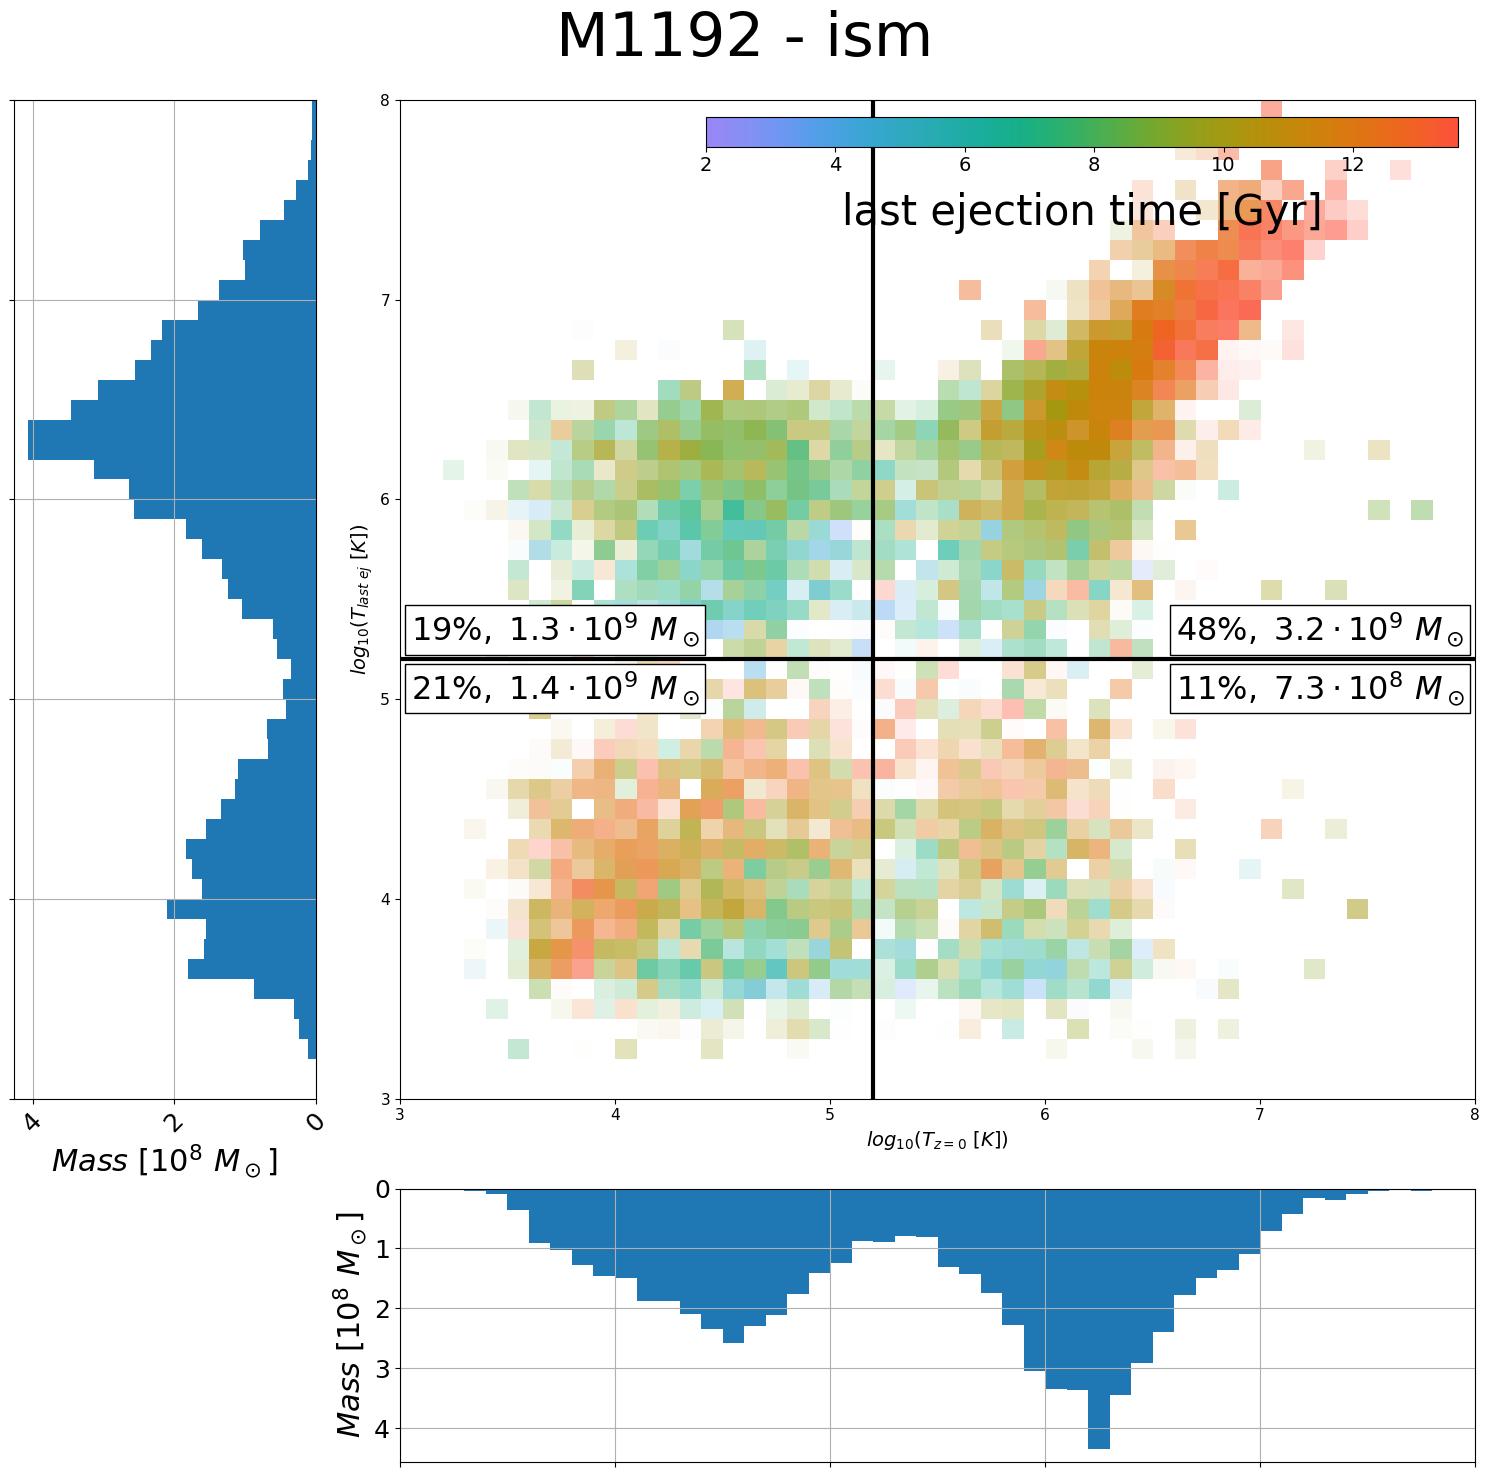
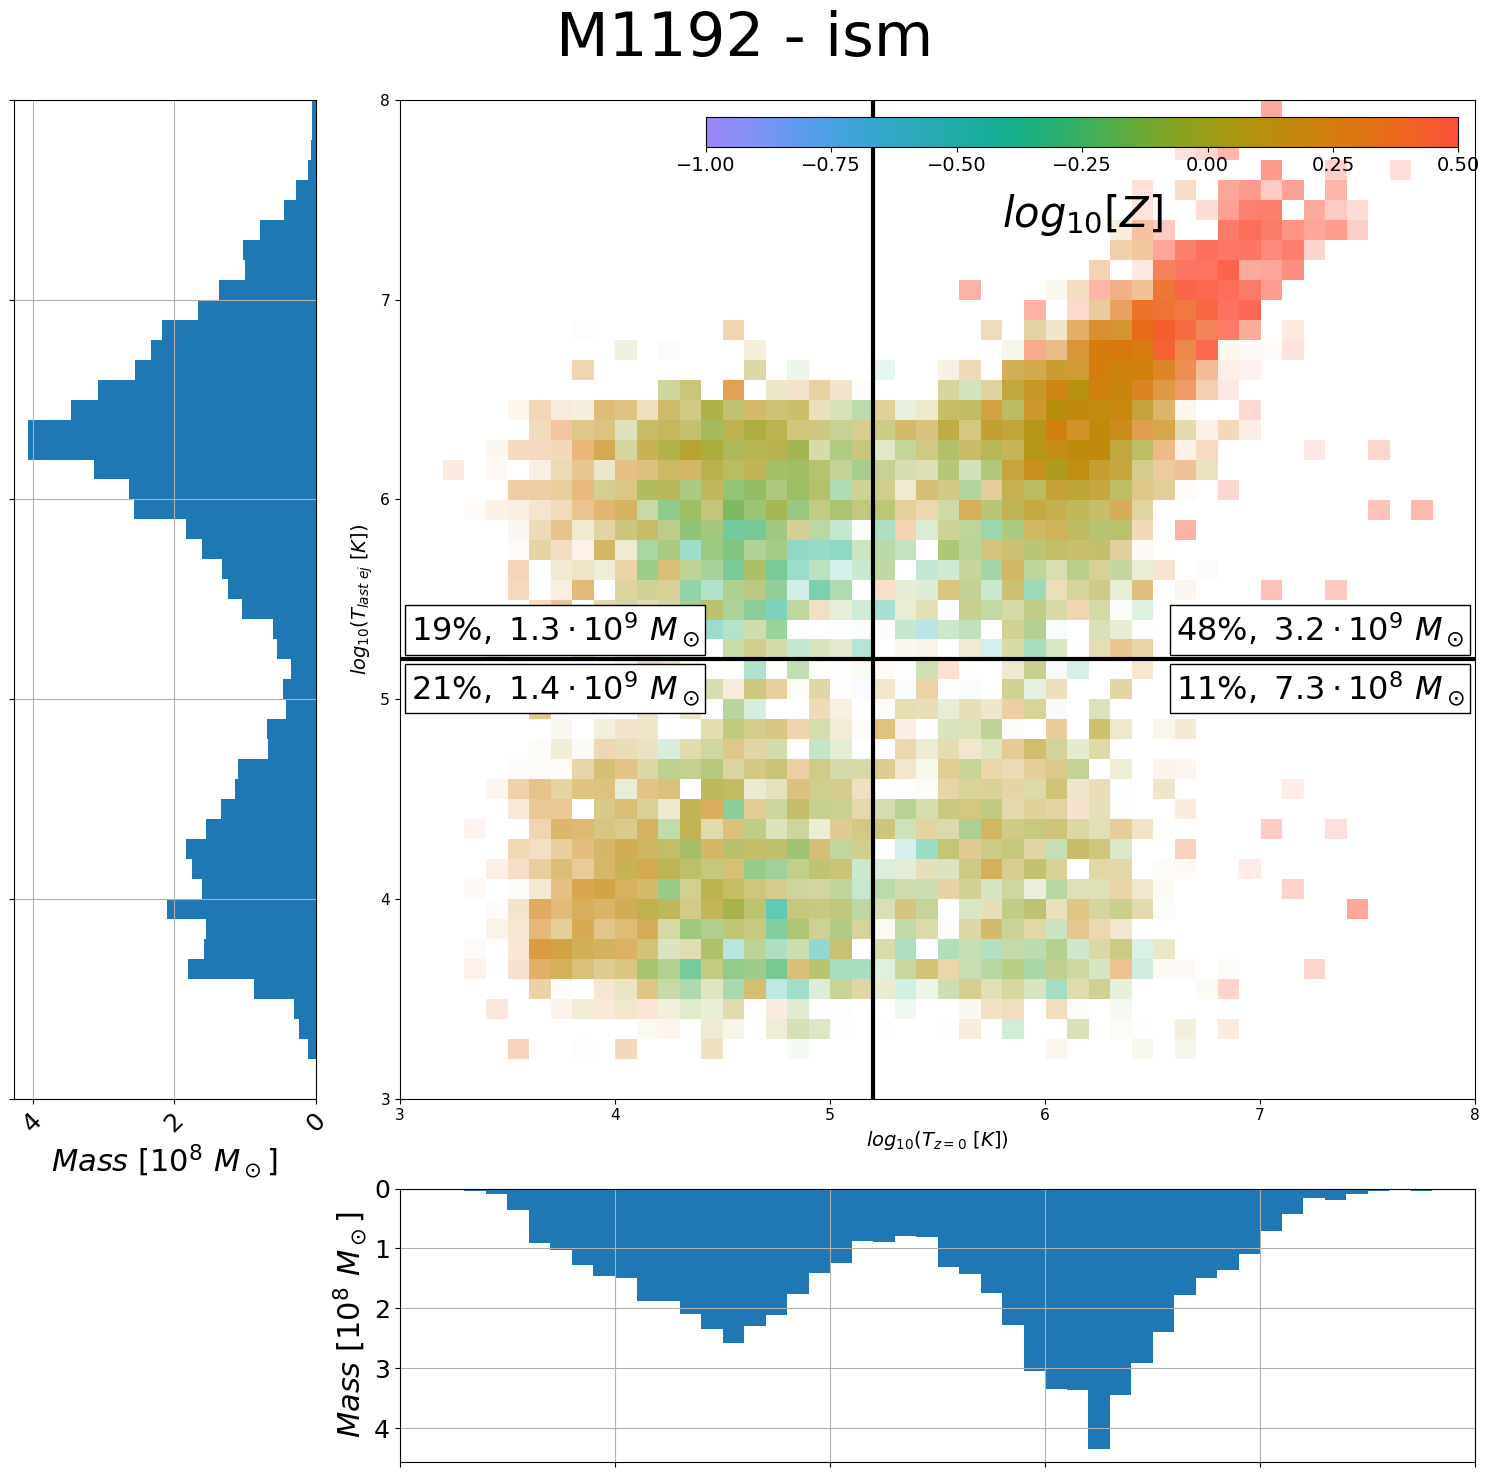
T_z0_vs_ejection colorcode averaged log[Z]

diff --git a/1/T_z0_vs_ejection.py b/1/T_z0_vs_ejection.py
@@ -52,16 +52,16 @@ def plot(args):
     ax3 = plt.subplot(gs[-1, 1:])
 
     _, _, _, cbar = pg.plotting.scatter_map('log10(temp)', np.log10(last_T),
-        #s=cgm_m, qty='mass', colors=cgm_m['metallicity']/pg.solar.Z(),
-        s=cgm_m, qty='mass', colors=last_t,
+        s=cgm_m, qty='mass', colors=np.log10(cgm_m['metallicity']/pg.solar.Z()),
+        #s=cgm_m, qty='mass', colors=last_t,
         logscale=True, bins=[bins, bins], extent=[[3, 8], [3, 8]],
-#        zero_is_white=True, clim=[10**-1., 10**.5], colors_av='mass', 
-        zero_is_white=True, clim=[2, s.cosmic_time()], colors_av='mass', 
-#        clogscale=True, ax=ax1)
+        zero_is_white=True, clim=[-1., .5], colors_av='mass', 
+        #zero_is_white=True, clim=[2, s.cosmic_time()], colors_av='mass', 
         clogscale=False, ax=ax1)
+#        clogscale=False, ax=ax1)
     cbar_ax = cbar.ax
-    cbar_ax.set_xlabel('last ejection time [Gyr]', fontsize=30)
-    #cbar_ax.set_xlabel(r'$log_{10} [ Z ] $', fontsize=30)
+    #cbar_ax.set_xlabel('last ejection time [Gyr]', fontsize=30)
+    cbar_ax.set_xlabel(r'$log_{10} [ Z ] $', fontsize=30)
     plt.setp(cbar_ax.get_xticklabels(), fontsize=14)
     ax1.plot([5.2, 5.2], [0, 1e100], lw=3, c='k')
     ax1.plot([0, 1e100], [5.2, 5.2], lw=3, c='k')
